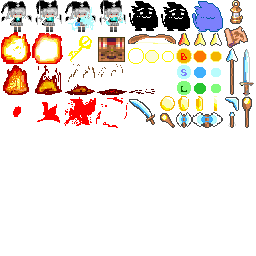
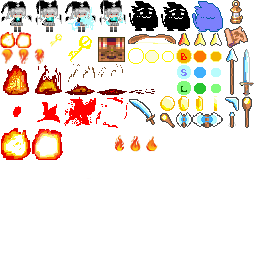
Update Graphics
敵の弾のグラフィクス変更と当たり判定大きさ調整

Changed region(s): [[0.0, 0.125, 0.25, 0.25], [0.0, 0.5, 0.25, 0.625], [0.4375, 0.5312, 0.625, 0.5938]]

diff --git a/data/character.js b/data/character.js
@@ -63,21 +63,22 @@ function character(){
     //Boss_?
 	[14, 4, 90, ENEMY	, 16, 16, 24, 24, 0, 0, 35, 5, 5, 35, 0, 50],
     //全方位弾ボス
-    [30, 7, 1, BULLET_E, 16, 16, 32, 32, 33, 33, 5, 5, 5, 5, 0, 0],
+    [30, 7, 1, BULLET_E, 8, 8, 6, 6, 33, 33, 5, 5, 5, 5, 0, 0],
 	//timeover
 	[33, 31, 70, ENEMY	, 16, 16, 24, 24, 0, 0, 35, 5, 5, 35, 0, 10],
 	//enemy boss x
     [34, 4, 40, ENEMY	, 16, 16, 32, 32, 0, 0, 7, 5, 5, 7, 0, 30],
 
 //敵弾
-	[  2, 7, 1,	BULLET_E,  4,  4,   2,	2, 4, 4, 5, 5, 5, 5, 0, 0],
-	[  3, 7, 2, BULLET_E,  8,  8,   6,	 6, 4, 4, 5, 5, 5, 5, 0, 0],
-	[  4, 7, 4, ENEMY	,  8,  8,   6,	 6,14,14, 7, 5, 5, 7, 0,10],
-	[  5, 7, 1, BULLET_E, 8, 8, 8, 8, 4, 4, 5, 5, 5, 5, 0, 0],
+	[  2, 7, 1,	BULLET_E, 4, 4, 6, 6, 4, 4, 5, 5, 5, 5, 0, 0],
+	[  3, 7, 2, BULLET_E, 4, 4, 6, 6, 4, 4, 5, 5, 5, 5, 0, 0],
+	[  4, 7, 4, ENEMY	, 4, 4, 6, 6,14,14, 7, 5, 5, 7, 0,10],
+	[  5, 7, 1, BULLET_E, 4, 4, 6, 6, 4, 4, 5, 5, 5, 5, 0, 0],
+	[  8,46, 1,	BULLET_E, 4, 4, 6, 6, "en_bullet_homing",4, 5, 5, 5, 5, 0, 0],
 	//ランダム弾
-	[12, 7, 1, BULLET_E, 4, 4, 2, 2, 18, 18, 5, 5, 5, 5, 0, 0],
+	[12, 7, 1, BULLET_E, 4, 4, 6, 6, 18, 18, 5, 5, 5, 5, 0, 0],
 	//敵誘導Laser用
-   	[32, 7, 5, BULLET_E, 8, 8, 6, 6, 49, 49, 5, 5, 5, 5, 0, 0],
+   	[32, 7, 5, BULLET_E, 8, 8, 16, 16, 49, 49, 5, 5, 5, 5, 0, 0],
 
 //武器動作(敵用)
 	//(sword)
@@ -105,7 +106,7 @@ function character(){
 	//1upItem
 	[21, 1, 1, ITEM, 16, 16, 32, 32, 30, 30, 5, 5, 5, 5, 0, 100],
 	//KeyItem
-	[22, 27, 1, ITEM, 16, 16, 32, 32, 30, 30, 5, 5, 5, 5, 0, 10],
+	[22, 27, 1, ITEM, 8, 8, 16, 16, 30, 30, 5, 5, 5, 5, 0, 10],
 	//(B)
 	[23, 28, 1, ITEM, 8, 8, 16, 16, 30, 30, 5, 5, 5, 5, 0, 8],
 	//(S)
@@ -137,7 +138,7 @@ function character(){
 //以下ExtEventの処理用//今の運用では使用せずに運用できる為、ほぼ過去互換用
 	[103, 8, 1, BULLET_E, 8, 8, 6, 6, 103, 103, 5, 5, 5, 5, 0, 0], //使用されている様子
 //Dummy
-	[  8,11, 1,	  ITEM, 16,  8,  32,  16, 4, 4,22, 5, 5, 5, 0,100],
+//	[  8,11, 1,	  ITEM, 16,  8,  32,  16, 4, 4,22, 5, 5, 5, 0,100],
 	[  9,11, 1,	  ITEM, 16,  8,  32,  16, 4, 4,22, 5, 5, 5, 0,100],
     ];
 

diff --git a/data/scenario/enemy_bullet.js b/data/scenario/enemy_bullet.js
@@ -28,7 +28,7 @@ function sce_en_bullet_homing(flag) {
                 o.vset(2);
                 break;
             case 15:
-                //		        o.get_target( 98 );
+                //o.get_target( 98 );
                 o.frame = 9;
                 break;
             default:
@@ -102,6 +102,7 @@ function sce_en_bullet_hominglaser() {
         o.vset(2);
         o.get_target(98);
 
+        //o.display_size = 2.0;
         o.display_size = 2.0;
         o.alpha = 128;
 
@@ -130,6 +131,7 @@ function sce_en_bullet_hominglaser() {
             default:
                 break;
         };
+
         if (o.frame%5==0)o.set_object_ex(32, o.x, o.y, o.vector, 56);
 
         o.w_cnt++
@@ -255,13 +257,14 @@ function sce_en_bullet_laser_tail() {
     //-----------------------------------------------------------------------
     this.init = function (scrn, o) {
         o.vset(0);
-        o.display_size = 2.0;
+        o.display_size = 1.5;
     }
 
     this.move = function (scrn, o) {
 
-        if (o.frame > 10) o.status = 0; //時間が来たら消す。
+        if (o.frame > 20) o.status = 0; //時間が来たら消す。
 
+        o.display_size = 1.5 + o.frame /20;
         o.frame++;
 
         return o.sc_move();

diff --git a/data/scenario/enemy.js b/data/scenario/enemy.js
@@ -174,7 +174,7 @@ function sce_ememy_moveshot() {
             }
             //            o.set_object(12);
             if (o.frame > 3600) {
-                o.set_object_ex(5, o.x, o.y, o.vector, "en_bullet_homing");
+                o.set_object_ex(8, o.x, o.y, o.vector, "en_bullet_homing");
             } else {
                 o.set_object_ex(5, o.x, o.y, o.vector, "en_bullet_turn");
             }
@@ -750,7 +750,7 @@ function sce_ememy_timeover() {
 
         o.lifecount++;
         if ((o.lifecount % 300) == 250) {
-            o.set_object_ex(5, o.x, o.y, o.vector, "en_bullet_homing");
+            o.set_object_ex(8, o.x, o.y, o.vector, "en_bullet_homing");
         }
 
         if (o.cancelcol) this.mapCollision = false;
@@ -821,7 +821,7 @@ function sce_enemy_inv_gr(scrn, o){
     spname[19] = "Boom";
     spname[20] = "Ball1";
     spname[21] = "Mayura1";
-    spname[22] = "Key";
+    spname[22] = "sKey";
     spname[23] = "BallB1";
     spname[24] = "BallS1";
     spname[25] = "BallL1";

diff --git a/data/spdata.js b/data/spdata.js
@@ -11,8 +11,10 @@ function spdata(){
 	["Unyuu1", 128, 0, 32, 32],
 	["Unyuu2", 160, 0, 32, 32],
 	["Unyuu3", 192, 0, 32, 32],
-	["Fire1", 0, 32, 32, 32],
-	["Fire2", 32, 32, 32, 32],
+//	["Fire1", 0, 32, 32, 32],
+//	["Fire2", 32, 32, 32, 32],
+	["Fire1",  0, 32, 16, 16],
+	["Fire2", 16, 32, 16, 16],
 	["Down1", 0, 64, 32, 32],
 	["Down2", 32, 64, 32, 32],
 	["Down3", 64, 64, 32, 32],
@@ -35,6 +37,7 @@ function spdata(){
 	["BallL2", 192, 80, 16, 16],
 	["BallL3", 208, 80, 16, 16],
 	["Key",     64, 32, 32, 32],
+	["sKey",    48, 32, 16, 16],
 //	["Door",  96, 32, 32, 32],
 	["TrBox",  96, 32, 32, 32],
 	["Space", 224, 0, 32, 32],
@@ -57,7 +60,10 @@ function spdata(){
 	["Cursor1",176, 32, 16, 16],
 	["Cursor2",192, 32, 16, 16],
 	["Cursor3",208, 32, 16, 16],
-    
+	["Barn1", 0, 48, 16, 16],
+	["Barn2",16, 48, 16, 16],
+	["Barn3",32, 48, 16, 16],
+
 	["Dummy",112,32,15,15]];
 
 

diff --git a/data/motionPtn.js b/data/motionPtn.js
@@ -151,7 +151,7 @@ function motionPattern(){
 
 //	mp[no].wait = 20;
 	mp[no].pattern = [
-	["Key", 0, 0]
+	["sKey", 0, 0]
     ];
 
 	//B
@@ -348,8 +348,30 @@ function motionPattern(){
     ["Cursor2", -1, -1],
     ["Cursor3", -1, -1],
     ["Cursor2", -1, -1]
-];
+	]
+	//BarningFire
+	//=================================================
+	no = 46;
 
+	mp[no] = {};
+
+	mp[no].wait = 10;
+	
+	mp[no].pattern = [
+		["Barn1", -1, -1],
+		["Barn2", -1, -1],
+		["Barn3", -1, -1]
+		];
+/*	
+	mp[no].pattern = [
+    ["Barn1", 1, 0],
+    ["Barn1", 1, 2],
+    ["Barn2", 1, 0],
+    ["Barn2", 1, 2],
+    ["Barn3", 1, 0],
+    ["Barn3", 1, 2]
+	];
+*/
 	//
 //@@
 	return mp;
